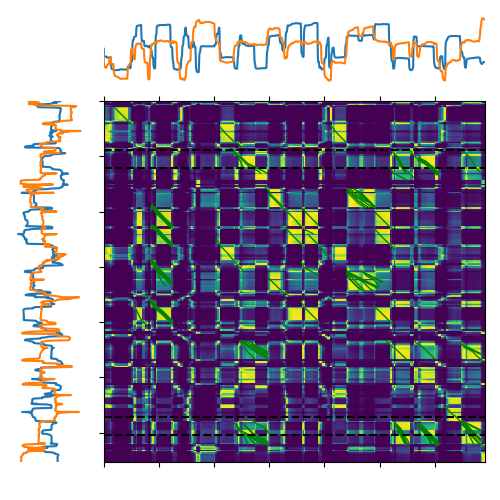
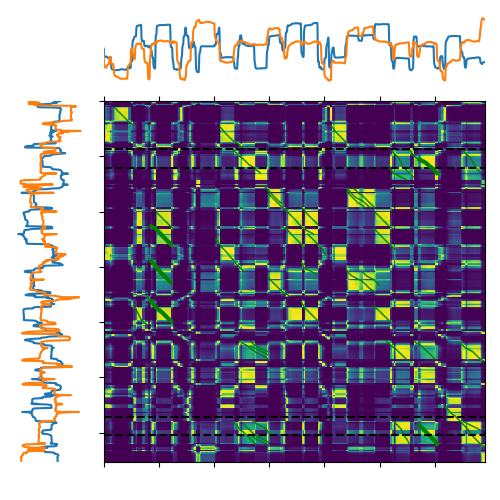
chore: v width update chore: image update

diff --git a/src/locomotif-loconsensus/locomotif/loconsensus/path_finder.py b/src/locomotif-loconsensus/locomotif/loconsensus/path_finder.py
@@ -2,7 +2,7 @@ import numpy as np
 from locomotif.loconsensus import path as path_class
 
 # TODO: what value for V_WIDTH?
-V_WIDTH = 5
+V_WIDTH = 25
 
 
 def find_pathsV1(
